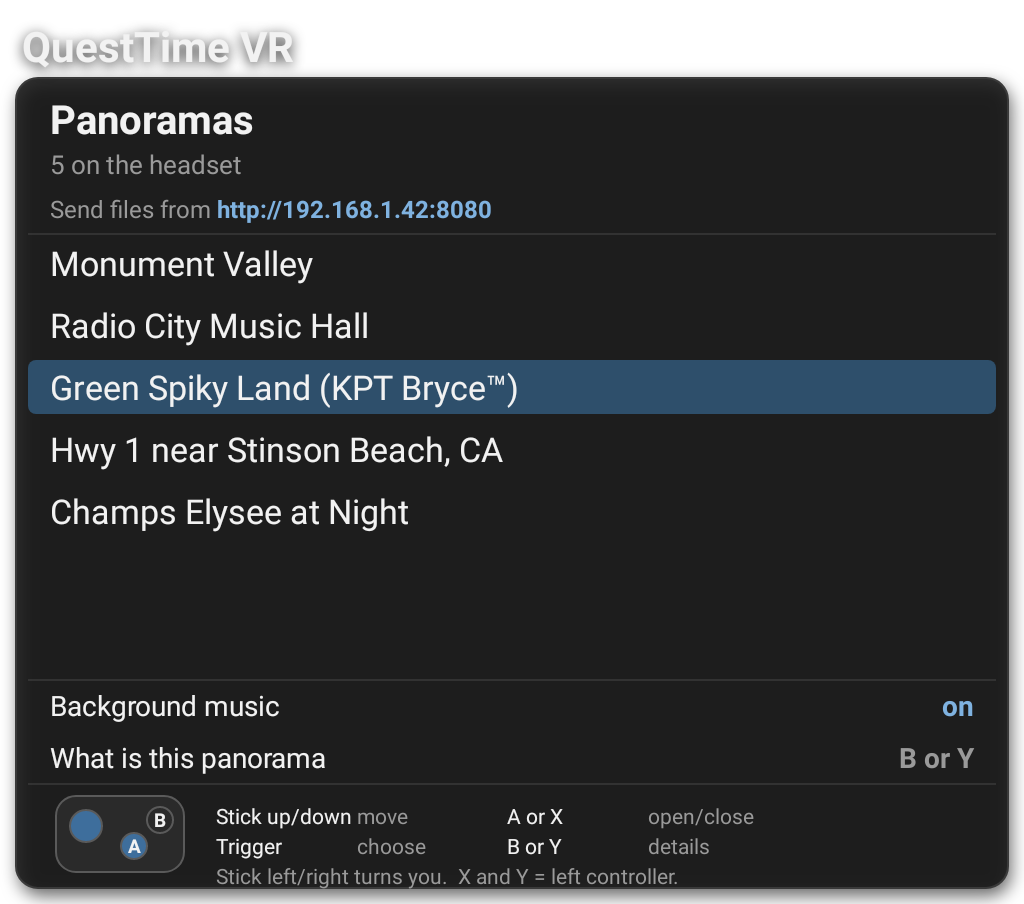
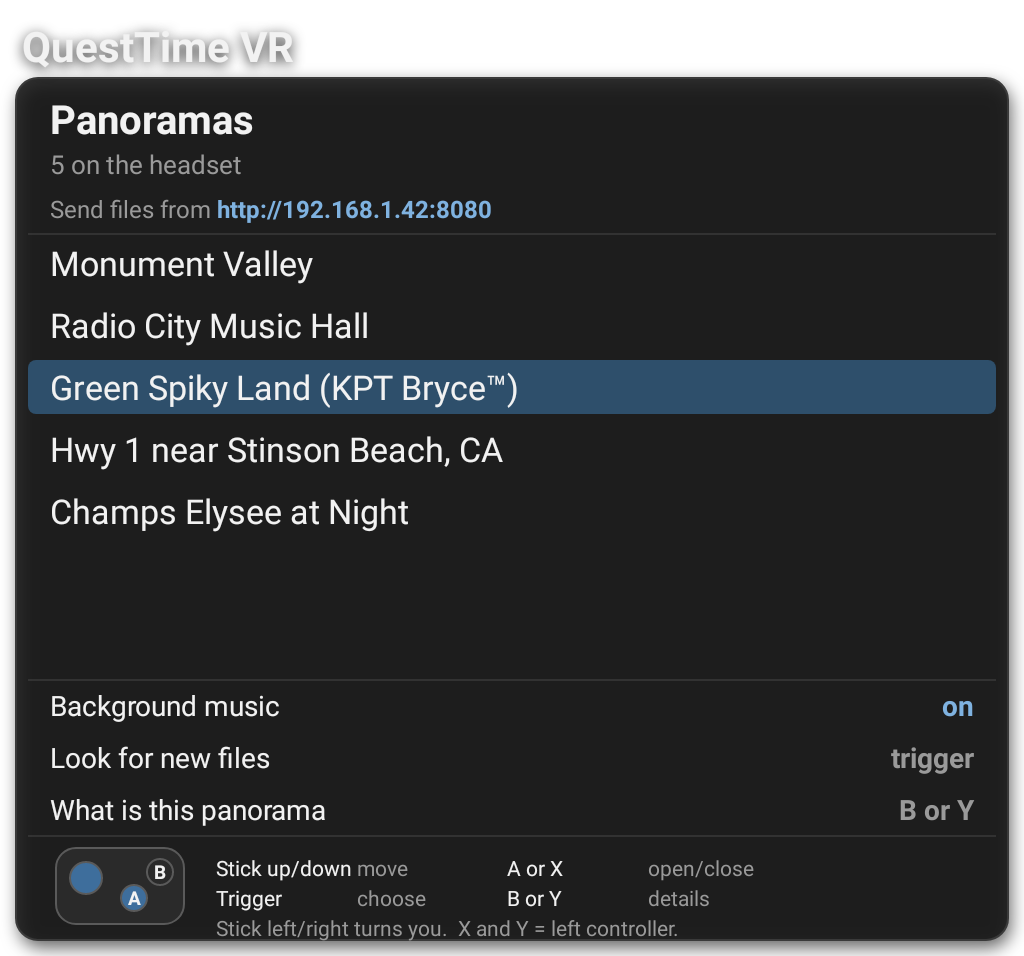
Look for new files, and a version number that can be told apart
A clean install landed on the flat 2D panel again, because the copy on the headset
was the 0.3.0 release - which predates Welcome - and both it and the local build
called themselves 0.3.0. That is the second time in two sessions a version string
has hidden which build was running, so this one is 0.3.1 before anything else.

Worth recording separately: a clean install is empty even on a headset full of
panoramas. /sdcard/QuestTimeVR and /sdcard/Download need All files access, which a
fresh install has not been granted, and an uninstall takes the app's own folder
with it. The welcome is not a rare path - it is what everybody sees first.

Verified on device rather than reasoned about: with the three search directories
emptied and the permission denied, the launcher opens the welcome panorama and no
panel; with them restored it opens one of nine at random. Everything moved aside
for that test was moved back.

New row in the settings band: Look for new files. Opening the list already
re-lists, so this is not the only route - it exists because that route is
invisible to someone who has just dropped files into the browser page and is
looking at a list built before they sent them. The count on the row is the whole
point; a rescan that looks identical afterwards is indistinguishable from one that
did nothing.

124 tests, 0 skipped, 0 failed.

diff --git a/android/app/src/main/java/com/questtime/vr/VrActivity.kt b/android/app/src/main/java/com/questtime/vr/VrActivity.kt
@@ -240,6 +240,9 @@ class VrActivity : Activity() {
     private fun openPicker() {
         showingInfo = false
         nativeSetPicking(true)
+        // A count from the last time the list was up is stale the moment it closes,
+        // and a stale one reads as the result of a press that never happened.
+        rescanNote = null
         sceneFile = null
         files = panoramas()
         // Start on the file already open, so the list opens where you are rather
@@ -260,7 +263,17 @@ class VrActivity : Activity() {
     /** Whatever is listed, then the band's action rows. */
     private fun rowCount() = listNames().size + MenuBar.ACTION_COUNT
     private val musicRow get() = listNames().size + MenuBar.ACTION_MUSIC
+    private val rescanRow get() = listNames().size + MenuBar.ACTION_RESCAN
     private val detailsRow get() = listNames().size + MenuBar.ACTION_DETAILS
+
+    /**
+     * What the last rescan found, shown on its own row until the list is closed.
+     *
+     * Held here rather than recomputed in the drawing, because the point of it is
+     * that somebody asked - a count that is simply always there says nothing about
+     * whether the button worked.
+     */
+    private var rescanNote: String? = null
 
     private fun move(by: Int) {
         if (!picking) return
@@ -273,6 +286,32 @@ class VrActivity : Activity() {
         // twice in a row, and closing the panel to do it again would be tedious.
         if (selected == musicRow) {
             ambience.toggleMuted()
+            drawPicker()
+            return
+        }
+        /*
+         * Files arrive while you are standing in a panorama.
+         *
+         * Opening the list already re-lists, so this row is not the only way to
+         * pick up a new file - closing and reopening does it too. It exists because
+         * that is invisible: somebody who has just dropped files into the browser
+         * page is looking at a list that does not have them, and nothing on screen
+         * suggests the fix is to close the thing they are reading. A row that says
+         * what it looked for and what it found answers that without them guessing.
+         *
+         * It drops back to the files even when a scene's nodes are showing, because
+         * a new file is not in the scene you are looking at and leaving you there
+         * would be answering a different question.
+         */
+        if (selected == rescanRow) {
+            sceneFile = null
+            sceneNodes = emptyList()
+            files = panoramas()
+            rescanNote = "${files.size} found"
+            Log.i(TAG, "rescan: ${files.size} on the headset")
+            // Keep the highlight on the row that was just pressed. The list it is
+            // measured from has changed length, so the row's index has too.
+            selected = rescanRow
             drawPicker()
             return
         }
@@ -409,6 +448,7 @@ class VrActivity : Activity() {
                 subtitle = if (scene != null) "${sceneNodes.size} places in this scene"
                     else "${files.size} on the headset",
                 inScene = scene != null,
+                rescanNote = rescanNote,
                 // Read from the panel rather than held here: the server is its
                 // object, and the address changes if the network does.
                 serverUrl = MainActivity.live?.serverUrl,

diff --git a/android/app/src/main/java/com/questtime/vr/MenuBar.kt b/android/app/src/main/java/com/questtime/vr/MenuBar.kt
@@ -289,8 +289,9 @@ object MenuBar {
 
     /** Rows in the band under the list, in order. Index 0 is the first after the files. */
     internal const val ACTION_MUSIC = 0
-    internal const val ACTION_DETAILS = 1
-    internal const val ACTION_COUNT = 2
+    internal const val ACTION_RESCAN = 1
+    internal const val ACTION_DETAILS = 2
+    internal const val ACTION_COUNT = 3
 
     /** One band row. */
     private const val ACTION_H = 52f
@@ -338,6 +339,16 @@ object MenuBar {
          * nobody can find is the same as no server.
          */
         serverUrl: String? = null,
+        /**
+         * What the last rescan found, or null if none has been asked for.
+         *
+         * Shown on the rescan row itself. Sending files from a browser changes what
+         * is on the headset while somebody is standing in a panorama looking at a
+         * list that was built before they sent them, so the one thing that row has
+         * to answer is "did that do anything" - and a count that goes 0 to 5 answers
+         * it where a row that just flickers does not.
+         */
+        rescanNote: String? = null,
     ): Triple<ByteBuffer, Int, Int> {
         val h = listHeight(names.size)
         val bmp = Bitmap.createBitmap(WIDTH, h, Bitmap.Config.ARGB_8888)
@@ -404,7 +415,7 @@ object MenuBar {
             y += 62f
         }
 
-        settings(c, panel, inset, selected - names.size, musicMuted)
+        settings(c, panel, inset, selected - names.size, musicMuted, rescanNote)
         controls(c, panel, inScene)
         return finish(bmp)
     }
@@ -457,6 +468,7 @@ object MenuBar {
 
     private fun settings(
         c: Canvas, panel: RectF, inset: Float, selectedAction: Int, musicMuted: Boolean,
+        rescanNote: String?,
     ) {
         val top = panel.bottom - 104f - SETTINGS_H
         c.drawLine(panel.left + 12f, top, panel.right - 12f, top,
@@ -483,6 +495,15 @@ object MenuBar {
                     c.drawText("Background music", inset, y, label)
                     state.color = if (musicMuted) DIM else 0xFF7FB2E0.toInt()
                     val t = if (musicMuted) "off" else "on"
+                    c.drawText(t, panel.right - 34f - state.measureText(t), y, state)
+                }
+                ACTION_RESCAN -> {
+                    c.drawText("Look for new files", inset, y, label)
+                    // Dim until it has been used, then the count in the same blue
+                    // the music row uses for "on" - the two rows report in the same
+                    // voice, so neither needs explaining twice.
+                    state.color = if (rescanNote == null) DIM else 0xFF7FB2E0.toInt()
+                    val t = rescanNote ?: "trigger"
                     c.drawText(t, panel.right - 34f - state.measureText(t), y, state)
                 }
                 ACTION_DETAILS -> {

diff --git a/android/app/src/test/java/com/questtime/vr/MenuPreviewTest.kt b/android/app/src/test/java/com/questtime/vr/MenuPreviewTest.kt
@@ -140,6 +140,37 @@ class MenuPreviewTest {
     }
 
     /**
+     * The rescan row reports, and that is the whole reason it is a row.
+     *
+     * Someone who has just dropped files into the browser page is looking at a list
+     * built before they sent them. Pressing something and seeing nothing change is
+     * indistinguishable from pressing nothing, so the count has to reach the panel -
+     * and this is what says the two states are actually drawn differently rather
+     * than the note being accepted and dropped.
+     */
+    @Test
+    fun theRescanRowShowsWhatItFound() {
+        val names = listOf("Monument Valley", "Radio City Music Hall")
+        fun render(note: String?): IntArray {
+            val (buf, w, h) = MenuBar.buildList(
+                names, selected = 0, musicMuted = false,
+                serverUrl = "http://192.168.1.42:8080", rescanNote = note,
+            )
+            val bmp = Bitmap.createBitmap(w, h, Bitmap.Config.ARGB_8888)
+            bmp.copyPixelsFromBuffer(buf)
+            val px = IntArray(w * h)
+            bmp.getPixels(px, 0, w, 0, 0, w, h)
+            bmp.recycle()
+            return px
+        }
+        val before = render(null)
+        val after = render("5 found")
+        assertEquals(before.size, after.size)
+        val changed = before.indices.count { before[it] != after[it] }
+        assertTrue("the note never reached the panel", changed > 200)
+    }
+
+    /**
      * The second level of the picker: one scene's nodes.
      *
      * The same drawing as the file list, which is the point - the title and the

diff --git a/CLAUDE.md b/CLAUDE.md
@@ -726,6 +726,27 @@ mapping on the JVM, and the cursor is a quad layer, not a renderer.
 Every one is logged on the `layer:` line at startup. They were not, and a value set on
 the device was indistinguishable from one that had not taken.
 
+## Looking for new files, from inside a panorama
+
+The settings band under the list has three rows now: background music, **Look for new
+files**, and what this panorama is.
+
+**Opening the list already re-lists**, so the row is not the only way to pick up a
+file that arrived a moment ago - closing and reopening does it too. It exists because
+that is invisible. Somebody who has just dropped files into the browser page is
+standing in a panorama looking at a list built before they sent them, and nothing on
+screen suggests that the fix is to close the thing they are reading.
+
+**The count is the whole feature.** A row that rescans and looks identical afterwards
+is indistinguishable from a row that did nothing, so the result is drawn on the row
+itself - dim "trigger" until it is used, then "5 found" in the same blue the music row
+uses for "on". `theRescanRowShowsWhatItFound` asserts the two states differ by more
+than a couple of hundred pixels, because a note that is accepted and dropped is
+exactly what this would look like.
+
+It drops back to the files even when a scene's nodes are showing: a new file is not in
+the scene you are looking at, and leaving you there answers a different question.
+
 ## The first launch, when the headset is empty
 
 A new install has no files, and the app opens a panorama chosen at random from what is
@@ -762,6 +783,13 @@ the four to agree within 5%.
 runs straight through the address - the one line on that wall somebody has to read
 character by character. The blank stretches are where the turning cue was wanted
 anyway.
+
+**A clean install is empty even on a headset full of panoramas**, and that is worth
+knowing before chasing it as a bug. `/sdcard/QuestTimeVR/` and `/sdcard/Download/`
+need "All files access", which a fresh install has not been granted, so the only
+directory the app can read is its own - and an uninstall takes that one with it. So
+the welcome is not a rare path for a handful of users; it is what *everybody* sees
+first.
 
 To see it without emptying the headset:
 
